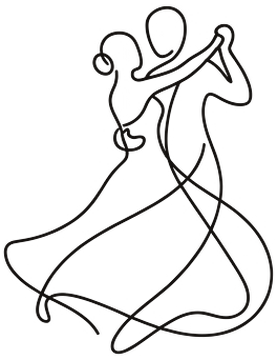
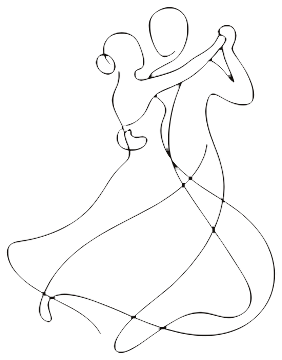
The Day: new champagne tower and bow chair, finer lines across the drawings

diff --git a/the-day.html b/the-day.html
@@ -9,7 +9,7 @@
 <link rel="preconnect" href="https://fonts.googleapis.com" />
 <link rel="preconnect" href="https://fonts.gstatic.com" crossorigin />
 <link href="https://fonts.googleapis.com/css2?family=Cormorant+Garamond:ital,wght@0,400;0,500;0,600;1,400&family=Jost:wght@300;400;500;600;700&family=Pinyon+Script&family=Playfair+Display:ital,wght@0,500;0,600;1,500&family=Bodoni+Moda:ital,wght@0,500;0,600;1,500&family=Cinzel:wght@500;600&family=Marcellus&family=Prata&display=swap" rel="stylesheet" />
-<link rel="stylesheet" href="style.css?v=28" />
+<link rel="stylesheet" href="style.css?v=30" />
 </head>
 <body>
 
@@ -44,7 +44,7 @@
       <div class="tl-item tl-item--art"><div class="tl-text"><div class="tl-time">12:30 pm</div><div class="tl-label">The Ceremony</div><div class="tl-note">The main event &ndash; it&rsquo;s time to make it official!</div></div><div class="tl-art tl-art--r"><img src="Photos/itinerary/ceremony.png" alt="" loading="lazy"></div></div>
       <div class="tl-item tl-item--art"><div class="tl-art tl-art--l"><img src="Photos/itinerary/camera.png" alt="" loading="lazy"></div><div class="tl-text"><div class="tl-time">1:00 pm</div><div class="tl-label">Drinks Reception &amp; Photographs</div><div class="tl-note"></div></div></div>
       <div class="tl-item tl-item--art"><div class="tl-text"><div class="tl-time">1:15 pm</div><div class="tl-label">Canap&eacute;s</div><div class="tl-note">Served during the drinks reception</div></div><div class="tl-art tl-art--r"><img src="Photos/itinerary/canapes.png" alt="" loading="lazy"></div></div>
-      <div class="tl-item tl-item--art"><div class="tl-art tl-art--l"><img src="Photos/itinerary/tower.svg" alt="" loading="lazy"></div><div class="tl-text"><div class="tl-time">2:30 pm</div><div class="tl-label">Into the Ballroom</div><div class="tl-note">Guests are moved through to the Ballroom</div></div></div>
+      <div class="tl-item tl-item--art"><div class="tl-art tl-art--l"><img src="Photos/itinerary/tower.png" alt="" loading="lazy"></div><div class="tl-text"><div class="tl-time">2:30 pm</div><div class="tl-label">Into the Ballroom</div><div class="tl-note">Guests are moved through to the Ballroom</div></div></div>
       <div class="tl-item tl-item--art"><div class="tl-text"><div class="tl-time">2:45 pm</div><div class="tl-label">The Happy Couple</div><div class="tl-note">The Master of Ceremonies announces Jessica &amp; Matthew</div></div><div class="tl-art tl-art--r"><img src="Photos/itinerary/couple.png" alt="" loading="lazy"></div></div>
       <div class="tl-item tl-item--art"><div class="tl-art tl-art--l"><img src="Photos/itinerary/toast.png" alt="" loading="lazy"></div><div class="tl-text"><div class="tl-time">3:00 pm</div><div class="tl-label">Speeches &amp; Toast</div><div class="tl-note"></div></div></div>
       <div class="tl-item"><div class="tl-text"><div class="tl-time">3:30 pm</div><div class="tl-label">Wedding Breakfast</div><div class="tl-note">The wedding breakfast is served</div></div></div>

diff --git a/index.html b/index.html
@@ -19,7 +19,7 @@
 <link rel="preconnect" href="https://fonts.googleapis.com" />
 <link rel="preconnect" href="https://fonts.gstatic.com" crossorigin />
 <link href="https://fonts.googleapis.com/css2?family=Cormorant+Garamond:ital,wght@0,400;0,500;0,600;1,400&family=Jost:wght@300;400;500;600;700&family=Pinyon+Script&family=Playfair+Display:ital,wght@0,500;0,600;1,500&family=Bodoni+Moda:ital,wght@0,500;0,600;1,500&family=Cinzel:wght@500;600&family=Marcellus&family=Prata&display=swap" rel="stylesheet" />
-<link rel="stylesheet" href="style.css?v=28" />
+<link rel="stylesheet" href="style.css?v=30" />
 </head>
 <body>
 

diff --git a/faq.html b/faq.html
@@ -9,7 +9,7 @@
 <link rel="preconnect" href="https://fonts.googleapis.com" />
 <link rel="preconnect" href="https://fonts.gstatic.com" crossorigin />
 <link href="https://fonts.googleapis.com/css2?family=Cormorant+Garamond:ital,wght@0,400;0,500;0,600;1,400&family=Jost:wght@300;400;500;600;700&family=Pinyon+Script&family=Playfair+Display:ital,wght@0,500;0,600;1,500&family=Bodoni+Moda:ital,wght@0,500;0,600;1,500&family=Cinzel:wght@500;600&family=Marcellus&family=Prata&display=swap" rel="stylesheet" />
-<link rel="stylesheet" href="style.css?v=28" />
+<link rel="stylesheet" href="style.css?v=30" />
 </head>
 <body>
 

diff --git a/registry.html b/registry.html
@@ -9,7 +9,7 @@
 <link rel="preconnect" href="https://fonts.googleapis.com" />
 <link rel="preconnect" href="https://fonts.gstatic.com" crossorigin />
 <link href="https://fonts.googleapis.com/css2?family=Cormorant+Garamond:ital,wght@0,400;0,500;0,600;1,400&family=Jost:wght@300;400;500;600;700&family=Pinyon+Script&family=Playfair+Display:ital,wght@0,500;0,600;1,500&family=Bodoni+Moda:ital,wght@0,500;0,600;1,500&family=Cinzel:wght@500;600&family=Marcellus&family=Prata&display=swap" rel="stylesheet" />
-<link rel="stylesheet" href="style.css?v=28" />
+<link rel="stylesheet" href="style.css?v=30" />
 </head>
 <body>
 

diff --git a/rsvp.html b/rsvp.html
@@ -9,7 +9,7 @@
 <link rel="preconnect" href="https://fonts.googleapis.com" />
 <link rel="preconnect" href="https://fonts.gstatic.com" crossorigin />
 <link href="https://fonts.googleapis.com/css2?family=Cormorant+Garamond:ital,wght@0,400;0,500;0,600;1,400&family=Jost:wght@300;400;500;600;700&family=Pinyon+Script&family=Playfair+Display:ital,wght@0,500;0,600;1,500&family=Bodoni+Moda:ital,wght@0,500;0,600;1,500&family=Cinzel:wght@500;600&family=Marcellus&family=Prata&display=swap" rel="stylesheet" />
-<link rel="stylesheet" href="style.css?v=28" />
+<link rel="stylesheet" href="style.css?v=30" />
 </head>
 <body>
 

diff --git a/things-to-do.html b/things-to-do.html
@@ -9,7 +9,7 @@
 <link rel="preconnect" href="https://fonts.googleapis.com" />
 <link rel="preconnect" href="https://fonts.gstatic.com" crossorigin />
 <link href="https://fonts.googleapis.com/css2?family=Cormorant+Garamond:ital,wght@0,400;0,500;0,600;1,400&family=Jost:wght@300;400;500;600;700&family=Pinyon+Script&family=Playfair+Display:ital,wght@0,500;0,600;1,500&family=Bodoni+Moda:ital,wght@0,500;0,600;1,500&family=Cinzel:wght@500;600&family=Marcellus&family=Prata&display=swap" rel="stylesheet" />
-<link rel="stylesheet" href="style.css?v=28" />
+<link rel="stylesheet" href="style.css?v=30" />
 </head>
 <body>
 

diff --git a/travel.html b/travel.html
@@ -9,7 +9,7 @@
 <link rel="preconnect" href="https://fonts.googleapis.com" />
 <link rel="preconnect" href="https://fonts.gstatic.com" crossorigin />
 <link href="https://fonts.googleapis.com/css2?family=Cormorant+Garamond:ital,wght@0,400;0,500;0,600;1,400&family=Jost:wght@300;400;500;600;700&family=Pinyon+Script&family=Playfair+Display:ital,wght@0,500;0,600;1,500&family=Bodoni+Moda:ital,wght@0,500;0,600;1,500&family=Cinzel:wght@500;600&family=Marcellus&family=Prata&display=swap" rel="stylesheet" />
-<link rel="stylesheet" href="style.css?v=28" />
+<link rel="stylesheet" href="style.css?v=30" />
 </head>
 <body>
 

diff --git a/wedding-party.html b/wedding-party.html
@@ -9,7 +9,7 @@
 <link rel="preconnect" href="https://fonts.googleapis.com" />
 <link rel="preconnect" href="https://fonts.gstatic.com" crossorigin />
 <link href="https://fonts.googleapis.com/css2?family=Cormorant+Garamond:ital,wght@0,400;0,500;0,600;1,400&family=Jost:wght@300;400;500;600;700&family=Pinyon+Script&family=Playfair+Display:ital,wght@0,500;0,600;1,500&family=Bodoni+Moda:ital,wght@0,500;0,600;1,500&family=Cinzel:wght@500;600&family=Marcellus&family=Prata&display=swap" rel="stylesheet" />
-<link rel="stylesheet" href="style.css?v=28" />
+<link rel="stylesheet" href="style.css?v=30" />
 </head>
 <body>
 
